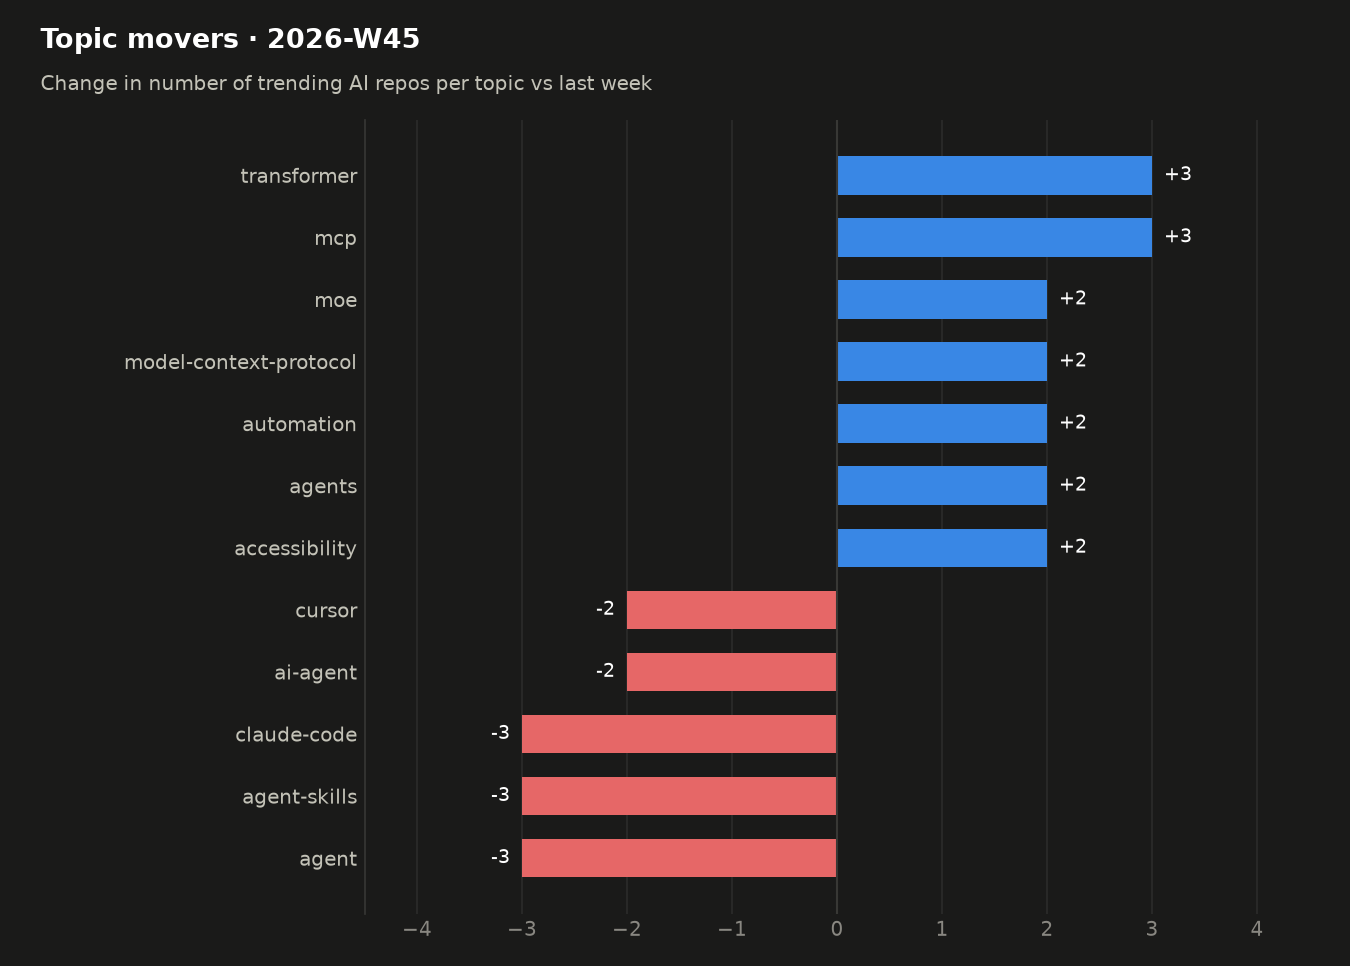
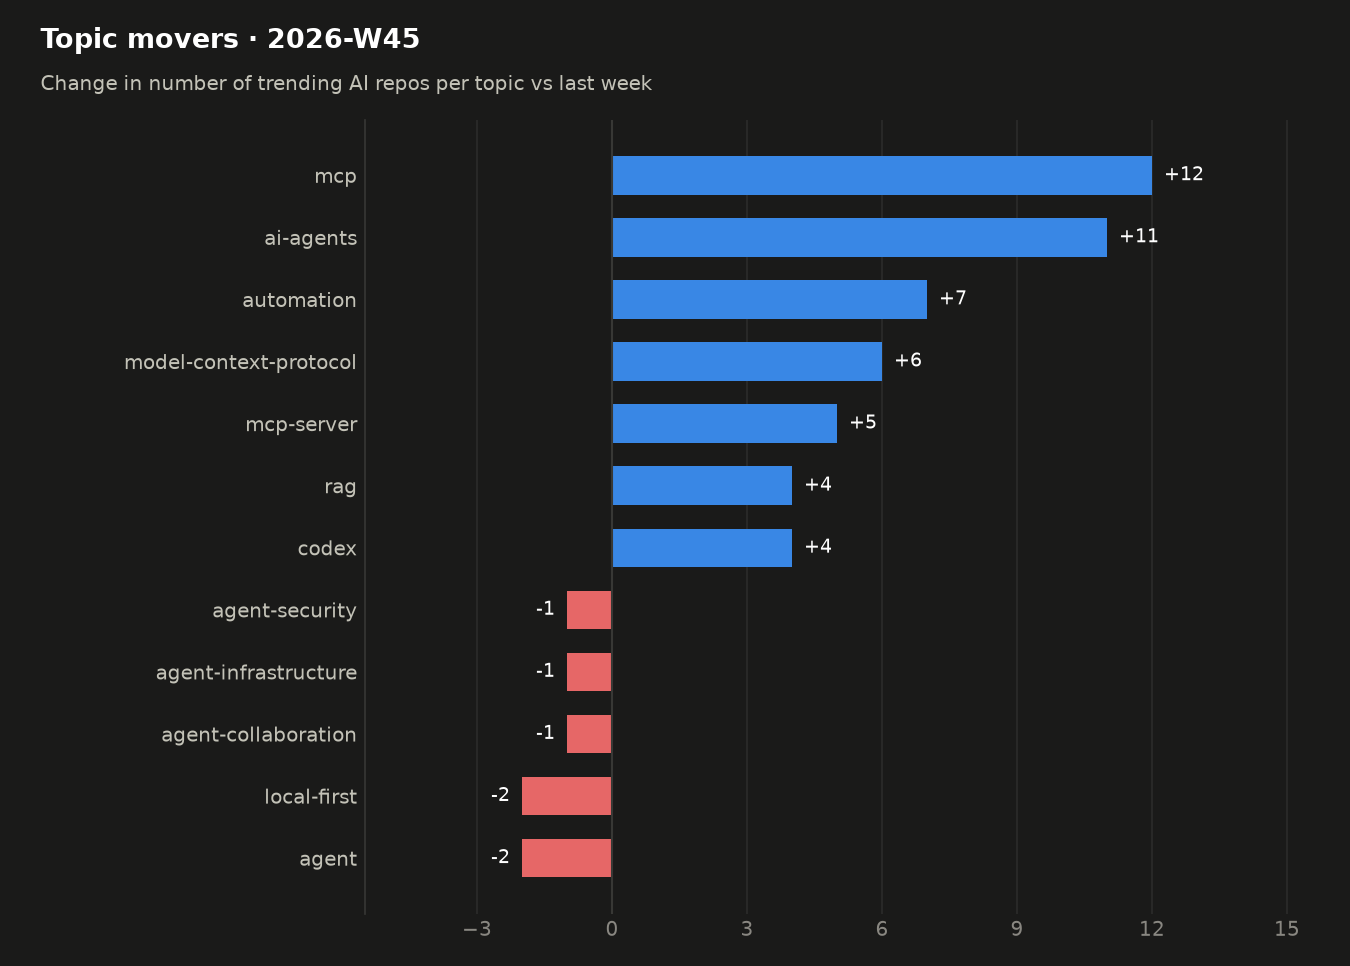
trending: snapshot 2026-11-08

diff --git a/README.md b/README.md
@@ -7,26 +7,47 @@ Every morning a GitHub Actions workflow reads the GitHub trending page, looks up
 ## Live view
 
 <!-- TRACKER_START -->
-### 🔥 AI repos trending today · 2026-11-07
+### 🔥 AI repos trending today · 2026-11-08
 
-4 of 18 trending repositories are AI-related.
+25 of 25 trending repositories are AI-related. _(trending page unavailable today, showing fast-rising new AI repos instead)_
 
 | # | Repo | Language | ⭐ today | ⭐ total | Topics |
 |--:|---|---|--:|--:|---|
-| 2 | [NVIDIA/auto-ontology](https://github.com/NVIDIA/auto-ontology)<br><sub>Star NVIDIA / auto-ontology Auto Ontology is a Python framework for building semantic, gra…</sub> | Python | 2,015 | 9,453 | – |
-| 10 | [google/skills](https://github.com/google/skills)<br><sub>Star google / skills Agent Skills for Google products and technologies</sub> | Python | 534 | 22,988 | `google` `googlecloud` `skills` |
-| 16 | [mattpocock/skills](https://github.com/mattpocock/skills)<br><sub>Sponsor Star mattpocock / skills Skills for Real Engineers. Straight from my .agents direc…</sub> | Shell | 2,070 | 317,022 | – |
-| 17 | [cloudflare/security-audit-skill](https://github.com/cloudflare/security-audit-skill)<br><sub>Star cloudflare / security-audit-skill A coding-agent skill for multi-phase security audit…</sub> | JavaScript | 2,548 | 64,548 | – |
+| 1 | [KKKKhazix/agent-autoloop](https://github.com/KKKKhazix/agent-autoloop)<br><sub>让你的命令行 Agent 在后台自己接活、自己跟进到底；平时不烦你，遇到拿不准的事才发卡片找你拍板。</sub> | TypeScript | 0 | 4,021 | `ai-agents` `automation` `claude-code` `cli` |
+| 2 | [Sandflow-ai/sand3d](https://github.com/Sandflow-ai/sand3d)<br><sub>3D modeling in Python, built for LLMs.</sub> | HTML | 0 | 1,159 | `3d` `blender` `cad` `llm` |
+| 3 | [voyager-so/vork](https://github.com/voyager-so/vork)<br><sub>Headless 3D and VFX engine for agents. Research preview.</sub> | Rust | 0 | 980 | `3d` `ai-agents` `gpu` `metal` |
+| 4 | [JosssphZhou/poki](https://github.com/JosssphZhou/poki)<br><sub>Let AI agents operate a real iPhone. Local MCP server and agent, no jailbreak, no extra ha…</sub> | JavaScript | 0 | 543 | `ai-agents` `automation` `ios` `iphone` |
+| 5 | [SAOS-3624/dsh-see-now](https://github.com/SAOS-3624/dsh-see-now)<br><sub>让 AI 实时看见你的屏幕：按变化量筛选帧、多帧拼进一张图，静止画面几乎不花 token</sub> | JavaScript | 0 | 476 | `ai-agent` `dsh` `dsh-plugin` `ffmpeg` |
+| 6 | [HerdBuilderEstimate/roblox-studio-mcp](https://github.com/HerdBuilderEstimate/roblox-studio-mcp)<br><sub>Model Context Protocol server for Roblox Studio. Connect AI assistants (Claude, Cursor) to…</sub> | Python | 0 | 428 | `ai-tools` `automation` `claude` `cursor` |
+| 7 | [mrhlaingbwardev/agentic-hacking-skills](https://github.com/mrhlaingbwardev/agentic-hacking-skills)<br><sub>AI-Powered Web Security & Automation - Official bonus skills, agents & MCP configs for the…</sub> | JavaScript | 0 | 347 | `agents` `ai` `automation` `hacking` |
+| 8 | [duyunzhoudyz/dyz-med-paper-skills](https://github.com/duyunzhoudyz/dyz-med-paper-skills)<br><sub>医学论文写作与科研助手：面向中国医生和医学研究生的 32 个 Agent Skills，适用于 Claude Code、Codex，覆盖选题、PubMed 文献检索、中英写作、选刊…</sub> | Python | 0 | 317 | `academic-writing` `agent-skills` `ai-agents` `biostatistics` |
+| 9 | [shanselman/sandbox-mcp](https://github.com/shanselman/sandbox-mcp)<br><sub>Fresh, throwaway Windows machines for testing your apps: an MCP server and CLI that automa…</sub> | JavaScript | 0 | 294 | `ai-agents` `mcp` `mcp-server` `testing` |
+| 10 | [yucezerey/turkish-anti-ai-skill](https://github.com/yucezerey/turkish-anti-ai-skill)<br><sub>Türkçe metinlerdeki yapay zeka izlerini (AI slop, translationese, çeviri kokan cümle mimar…</sub> | Python | 0 | 261 | `agent-skills` `ai-skills` `ai-writing` `claude-code` |
+| 11 | [Balanov/uncut](https://github.com/Balanov/uncut)<br><sub>The lossless, headless coding agent harness. One 7 MB static binary, four tools, plain std…</sub> | Go | 0 | 256 | `agent-harness` `cli` `coding-agent` `go` |
+| 12 | [dhruvthakur11/youtube-ai-video-editing-system](https://github.com/dhruvthakur11/youtube-ai-video-editing-system)<br><sub>Eyeline teleprompter meets editing agents: JSON-driven animation and motion graphics workf…</sub> | HTML | 0 | 244 | `ai-agents` `ai-video-editing` `animation` `claude-design` |
+| 13 | [Glen-Web-App/best-agent-memory-mcp](https://github.com/Glen-Web-App/best-agent-memory-mcp)<br><sub>Best Agent Memory MCP servers, ranked and compared: long-term memory for Claude Code, Code…</sub> | – | 0 | 242 | `agent-memory` `ai-agents` `ai-memory` `awesome` |
+| 14 | [silverdugongenhance/PromptReel](https://github.com/silverdugongenhance/PromptReel)<br><sub>Free desktop app that turns a text prompt into a short video clip on your own PC. Local AI…</sub> | – | 0 | 210 | `ai-tools` `ai-video` `ai-video-clip` `ai-video-generator-crack` |
+| 15 | [gogoymh/auto-ontology-mcp](https://github.com/gogoymh/auto-ontology-mcp)<br><sub>NVIDIA Auto Ontology's semantic layer and a personal knowledge base as an MCP server for C…</sub> | Python | 0 | 160 | `chatgpt` `claude` `mcp` `mcp-server` |
+| 16 | [dabingfy-dot/solo-to-team-skills](https://github.com/dabingfy-dot/solo-to-team-skills)<br><sub>Skills for human-led AI teams: delegate tasks, verify evidence, explain steps clearly, and…</sub> | – | 0 | 149 | `agent-skills` `ai-agents` `collaboration` `human-in-the-loop` |
+| 17 | [zaxiu88888/issue-rag](https://github.com/zaxiu88888/issue-rag)<br><sub>RAG over GitHub issues, with a hand-reviewed eval set and an audit of the judge itself. Re…</sub> | Python | 0 | 139 | `evaluation` `github-issues` `llm` `llm-as-judge` |
+| 18 | [didilili/mianstack](https://github.com/didilili/mianstack)<br><sub>🚀 面栈 MianStack｜程序员面试题库天花板！Java、Python、数据库、算法、大模型、AI Agent、RAG 一栈备齐。真实面经关联高频考点，按公司、岗位定向备考；图…</sub> | JavaScript | 0 | 133 | `agent` `agentic-ai` `ai-agent` `ai-engineering` |
+| 19 | [wendersoon/radar-cnpj-mcp](https://github.com/wendersoon/radar-cnpj-mcp)<br><sub>Servidor MCP e CLI para localizar empresas brasileiras por CNAE e região, utilizando dados…</sub> | TypeScript | 0 | 129 | `cnae` `cnpj` `duckdb` `mcp` |
+| 20 | [liangjianshu/multimodal-image-retrieval](https://github.com/liangjianshu/multimodal-image-retrieval)<br><sub>多模态检索实战：意图识别、Prompt 工程、Qwen LoRA、EmbeddingGemma 2 与 InfoNCE 对比学习。含真实演示、自有数据接入、训练评测及 RAG 检索…</sub> | Python | 0 | 126 | `agent-tools` `clip` `contrastive-learning` `ecommerce` |
+| 21 | [yorkeccak/globalhackmap](https://github.com/yorkeccak/globalhackmap)<br><sub>Every hack, exploit and breach, live: new vulnerabilities, active exploits and breaches on…</sub> | TypeScript | 0 | 124 | `cve` `cybersecurity` `mapbox` `mcp` |
+| 22 | [orkbot-run/ork](https://github.com/orkbot-run/ork)<br><sub>Source-available AI assistant with persistent bots that share conversations and work on is…</sub> | TypeScript | 0 | 123 | `ai-agents` `ai-assistants` `automation` `electron` |
+| 23 | [howznguyen/shorts-kit](https://github.com/howznguyen/shorts-kit)<br><sub>Make narrated vertical shorts (TikTok, YouTube Shorts, Reels) with a coding agent and Remo…</sub> | TypeScript | 0 | 113 | `agent-skills` `ai-agents` `claude-code` `remotion` |
+| 24 | [TIGER-AI-Lab/WebsiteBench](https://github.com/TIGER-AI-Lab/WebsiteBench)<br><sub>Can AI agents rebuild websites through browser exploration?</sub> | Python | 0 | 109 | `agent-evaluation` `ai` `ai-agents` `benchmark` |
+| 25 | [supercli-site/awesome-coding-plan](https://github.com/supercli-site/awesome-coding-plan)<br><sub>TokenPlan：AI 编程套餐与 API 价格对比，涵盖云厂商 Coding / Token Plan、缓存与峰谷计费、模型性价比及官方购买入口。 / AI coding pl…</sub> | TypeScript | 0 | 102 | `ai-agents` `ai-coding` `ai-models` `api-pricing` |
 
 ### 📊 This week so far · 2026-W45
 
 #### Summary
 
-- **33** distinct AI repos trended over 6 day(s) (last week: 30)
-- AI share of all trending slots: **66%** (-17 pts vs last week)
-- Dominant language: **Python** (42% of AI repos)
-- Rising topics: `mcp` (+3), `transformer` (+3), `accessibility` (+2), `agents` (+2), `automation` (+2)
-- New this week: `transformer`, `accessibility`, `model-context-protocol`, `agents`, `moe`, `workflow-automation`
+- **58** distinct AI repos trended over 7 day(s) (last week: 30)
+- AI share of all trending slots: **73%** (-9 pts vs last week)
+- Dominant language: **Python** (36% of AI repos)
+- Rising topics: `mcp` (+12), `ai-agents` (+11), `automation` (+7), `model-context-protocol` (+6), `mcp-server` (+5)
+- New this week: `model-context-protocol`, `mcp-server`, `agents`, `transformer`, `generative-ai`, `accessibility`
 
 #### Languages
 
@@ -34,14 +55,16 @@ Every morning a GitHub Actions workflow reads the GitHub trending page, looks up
 
 | Language | Repos | Share | Last week |
 |---|--:|--:|--:|
-| Python | 14 | 42% | 7 |
-| TypeScript | 6 | 18% | 8 |
-| Rust | 5 | 15% | 3 |
-| Shell | 2 | 6% | 4 |
-| C | 2 | 6% | 0 |
-| JavaScript | 2 | 6% | 3 |
-| Zig | 1 | 3% | 1 |
-| Jupyter Notebook | 1 | 3% | 0 |
+| Python | 21 | 36% | 7 |
+| TypeScript | 12 | 21% | 8 |
+| JavaScript | 7 | 12% | 3 |
+| Rust | 6 | 10% | 3 |
+| Unspecified | 3 | 5% | 2 |
+| Shell | 2 | 3% | 4 |
+| C | 2 | 3% | 0 |
+| HTML | 2 | 3% | 1 |
+| Zig | 1 | 2% | 1 |
+| Jupyter Notebook | 1 | 2% | 0 |
 
 #### Topics
 
@@ -49,18 +72,18 @@ Every morning a GitHub Actions workflow reads the GitHub trending page, looks up
 
 | Topic | Repos this week |
 |---|--:|
-| `mcp` | 8 |
-| `ai-agents` | 7 |
-| `claude-code` | 6 |
-| `claude` | 4 |
-| `codex` | 4 |
-| `anthropic` | 3 |
-| `rag` | 3 |
-| `claude-skills` | 3 |
-| `playwright` | 3 |
-| `transformer` | 3 |
-| `automation` | 3 |
-| `browser-automation` | 2 |
+| `ai-agents` | 19 |
+| `mcp` | 17 |
+| `claude-code` | 11 |
+| `codex` | 8 |
+| `automation` | 8 |
+| `rag` | 6 |
+| `claude` | 6 |
+| `model-context-protocol` | 6 |
+| `agent-skills` | 6 |
+| `mcp-server` | 5 |
+| `self-hosted` | 4 |
+| `ai-tools` | 4 |
 
 #### Most persistent AI repos
 
@@ -79,7 +102,7 @@ Every morning a GitHub Actions workflow reads the GitHub trending page, looks up
 
 ➡ Last full weekly analysis: [2026-W44](reports/weekly/2026-W44.md) · [all reports](reports/weekly)
 
-_Tracking since 2026-10-01 · 38 day(s) of data · [raw data](data/trending.csv)_
+_Tracking since 2026-10-01 · 39 day(s) of data · [raw data](data/trending.csv)_
 <!-- TRACKER_END -->
 
 ## How it works
